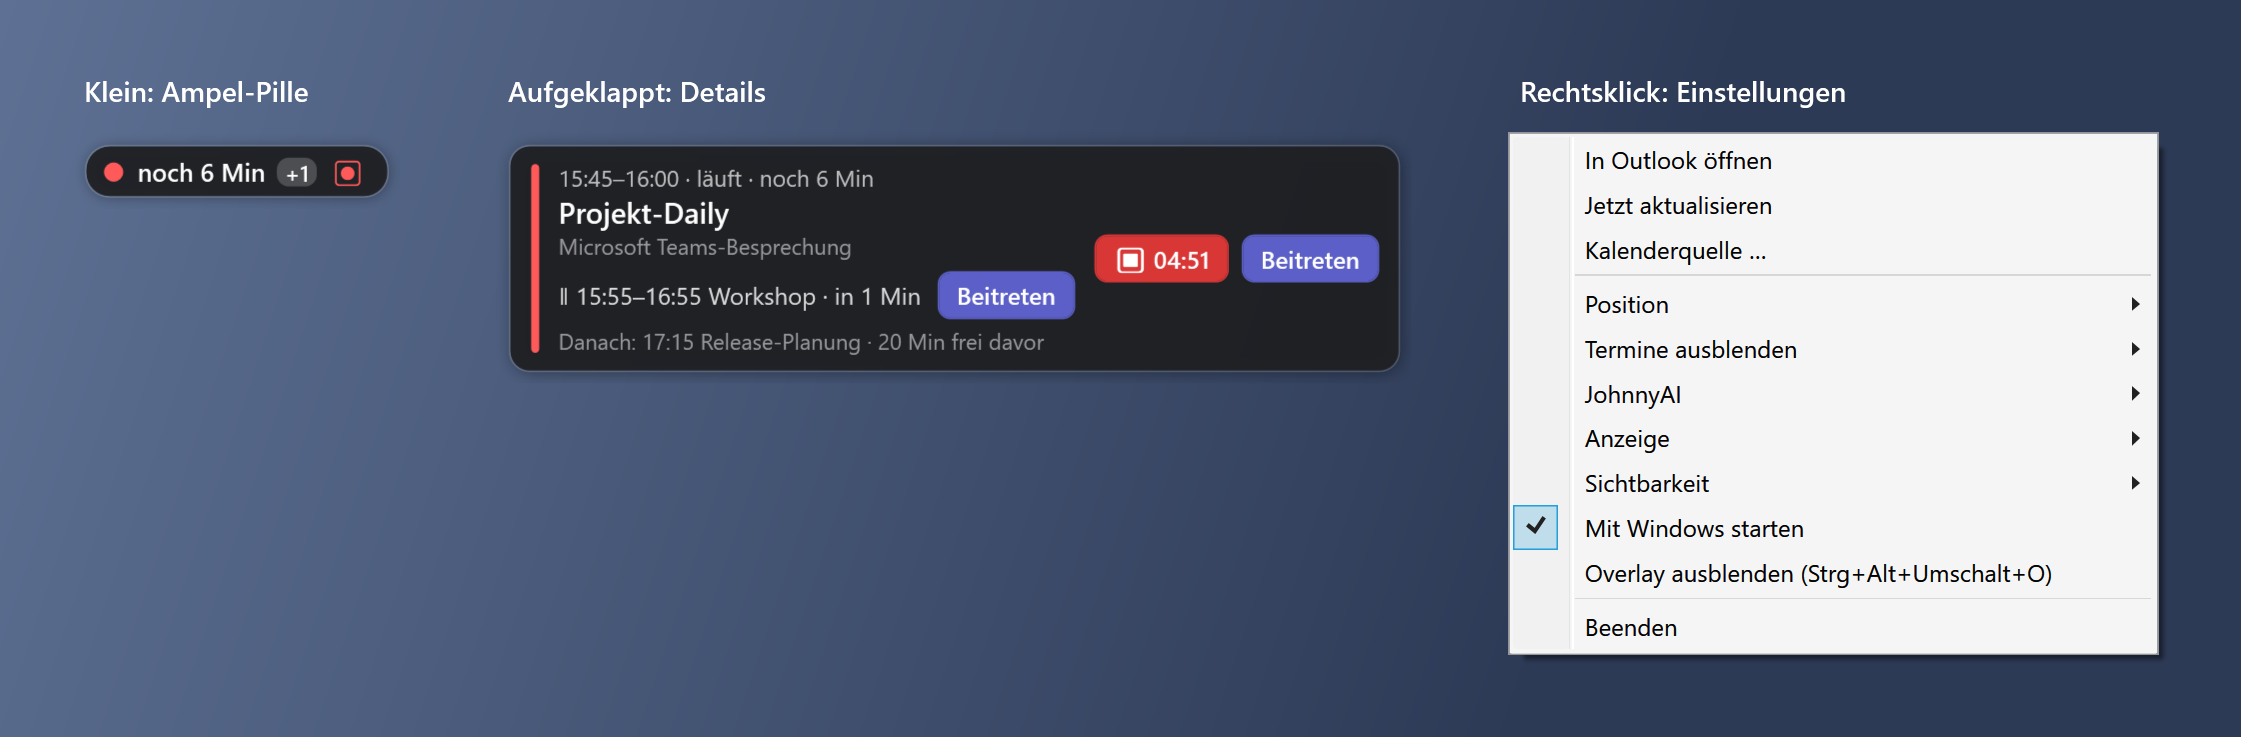
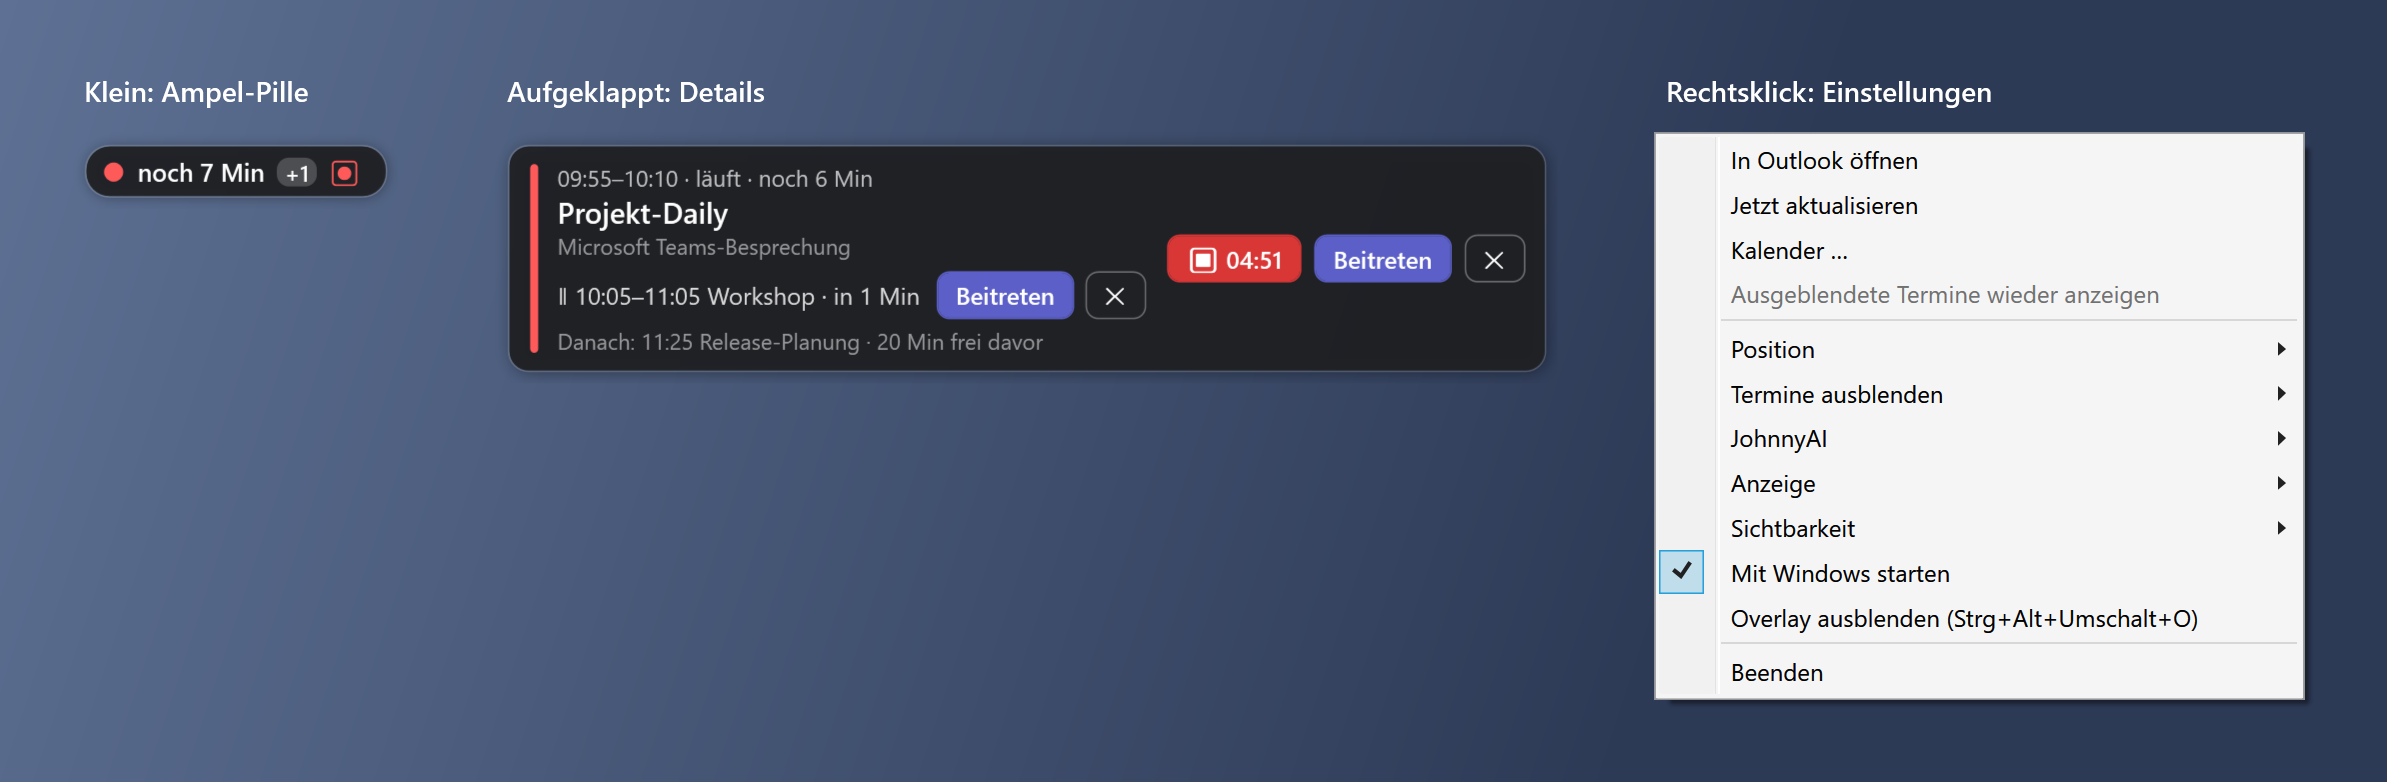
Nicht teilnehmen: Termin per ✕ im Overlay ausblenden (Outlook unverändert), mit Rückgängig
Pro Termin und parallelem Termin ein ✕; Hinweis zum Rückgängigmachen, Menüpunkt zum Wiederherstellen; alte Einträge werden nach 2 Tagen aufgeräumt. Karte etwas breiter, Screenshot neu.

Changed region(s): [[0.0312, 0.0936, 0.9683, 0.905], [0.2187, 0.0936, 0.3436, 0.156], [0.0312, 0.0936, 0.1562, 0.156]]

diff --git a/MainWindow.xaml b/MainWindow.xaml
@@ -46,7 +46,7 @@
 
     <Border x:Name="Card" Margin="6" CornerRadius="10" Background="#F01F2023"
             BorderBrush="#33FFFFFF" BorderThickness="1" Padding="10,8"
-            MinWidth="240" MaxWidth="460">
+            MinWidth="240" MaxWidth="560">
         <Border.Effect>
             <DropShadowEffect BlurRadius="12" ShadowDepth="2" Opacity="0.45"/>
         </Border.Effect>
@@ -79,6 +79,9 @@
                 <Button x:Name="JoinButton" Template="{StaticResource PillButton}" Content="Beitreten"
                         Background="#5B5FC7" BorderBrush="#5B5FC7"
                         Cursor="Hand" Focusable="False" Click="OnJoinClick"/>
+                <Button x:Name="SkipButton" Template="{StaticResource PillButton}" Content="✕"
+                        Background="Transparent" BorderBrush="#55FFFFFF" Margin="6,0,0,0"
+                        Cursor="Hand" Focusable="False" Click="OnSkipClick"/>
             </StackPanel>
         </Grid>
     </Border>

diff --git a/MainWindow.xaml.cs b/MainWindow.xaml.cs
@@ -37,6 +37,7 @@ public partial class MainWindow : Window
     private static readonly Brush Gray = Frozen("#80FFFFFF");
     private static readonly Brush DefaultBorder = Frozen("#33FFFFFF");
     private static readonly Brush JohnnyBorder = Frozen("#66FF5A5A");
+    private static readonly Brush SkipBorder = Frozen("#55FFFFFF");
 
     private readonly Settings _s = Settings.Load();
     private readonly OutlookReader _reader = new();
@@ -70,7 +71,7 @@ public partial class MainWindow : Window
     private bool _johnnyAvailable = (Demo.Active && !JohnnyAiClient.Disabled) || JohnnyAiClient.IsInstalled;   // false -> no JohnnyAI UI at all
     private JohnnyStatus? _johnny;       // null = not running or JohnnyAI without control pipe
     private bool _johnnyPolling;
-    private Meeting? _balloonMeeting;    // meeting a "start recording?" balloon refers to
+    private Func<Task>? _balloonAction;  // what a click on the current tray balloon does
 
     public MainWindow()
     {
@@ -245,7 +246,7 @@ public partial class MainWindow : Window
     private void UpdateDisplay()
     {
         var now = DateTime.Now;
-        var upcoming = _meetings.Where(m => m.End > now).ToList();
+        var upcoming = VisibleMeetings().Where(m => m.End > now).ToList();
         var main = upcoming.FirstOrDefault();
         _shown = main;
         _blink = !_blink;
@@ -264,6 +265,7 @@ public partial class MainWindow : Window
             LocationText.Visibility = Visibility.Collapsed;
             FollowUpText.Visibility = Visibility.Collapsed;
             JoinButton.Visibility = Visibility.Collapsed;
+            SkipButton.Visibility = Visibility.Collapsed;
             Card.ToolTip = "Rechtsklick: Einstellungen";
             SetTrayText(SubjectText.Text);
             return;
@@ -322,6 +324,8 @@ public partial class MainWindow : Window
 
         JoinButton.Visibility = main.JoinUrl != null ? Visibility.Visible : Visibility.Collapsed;
         JoinButton.ToolTip = $"Online-Meeting beitreten ({HotkeyHint}+J)";
+        SkipButton.Visibility = Visibility.Visible;
+        SkipButton.ToolTip = $"Nicht teilnehmen – „{main.Subject}“ im Overlay ausblenden\n(in Outlook bleibt der Termin unverändert, es geht keine Absage raus)";
 
         UpdateToolTip(main, upcoming, range, now);
         SetTrayText($"{main.Start:HH:mm} {subject} ({relative})");
@@ -366,7 +370,7 @@ public partial class MainWindow : Window
 
         // "+1": meetings overlapping the shown one (same rule as the parallel rows in the card).
         int overlapCount = main == null || !_s.ShowOverlaps ? 0
-            : _meetings.Count(m => m != main && m.End > now && m.Start >= main.Start && m.Start < main.End);
+            : VisibleMeetings().Count(m => m != main && m.End > now && m.Start >= main.Start && m.Start < main.End);
         MiniOverlapText.Text = $"+{overlapCount}";
         MiniOverlap.Visibility = overlapCount > 0 ? Visibility.Visible : Visibility.Collapsed;
 
@@ -434,6 +438,11 @@ public partial class MainWindow : Window
                     grid.Children.Add(join);
                 }
 
+                grid.ColumnDefinitions.Add(new ColumnDefinition { Width = GridLength.Auto });
+                var skip = CreateSkipButton(m);
+                Grid.SetColumn(skip, 2);
+                grid.Children.Add(skip);
+
                 OverlapPanel.Children.Add(grid);
                 _overlapRows.Add((m, text));
             }
@@ -446,6 +455,64 @@ public partial class MainWindow : Window
             text.Text = $"∥ {m.Start:HH:mm}–{m.End:HH:mm} {m.Subject} · {state}";
             text.ToolTip = $"Parallel: {m.Subject} ({m.Start:HH:mm}–{m.End:HH:mm})";
         }
+    }
+
+    // ───────────────────────── Not attending (skip) ─────────────────────────
+
+    private IEnumerable<Meeting> VisibleMeetings() =>
+        _s.SkippedMeetings.Count == 0 ? _meetings : _meetings.Where(m => !_s.SkippedMeetings.Contains(m.Key));
+
+    /// <summary>
+    /// "Nicht teilnehmen": hides this one occurrence in the overlay (no ampel, no JohnnyAI prompt).
+    /// Outlook stays untouched - nothing is declined or sent to the organizer.
+    /// </summary>
+    private void SkipMeeting(Meeting meeting)
+    {
+        if (!_s.SkippedMeetings.Contains(meeting.Key)) _s.SkippedMeetings.Add(meeting.Key);
+        _johnnyHandled.Add(meeting.Key);
+        _s.Save();
+        _toolTipKey = null;
+        UpdateDisplay();
+        ShowActionBalloon("Termin ausgeblendet",
+            $"„{meeting.Subject}“ ({meeting.Start:HH:mm}) wird im Overlay nicht mehr angezeigt – in Outlook bleibt er unverändert.\nHier klicken zum Rückgängigmachen.",
+            () =>
+            {
+                _s.SkippedMeetings.Remove(meeting.Key);
+                _s.Save();
+                _toolTipKey = null;
+                UpdateDisplay();
+                return Task.CompletedTask;
+            }, timeoutMs: 8000);
+    }
+
+    private void ShowSkippedMeetingsAgain()
+    {
+        _s.SkippedMeetings.Clear();
+        _s.Save();
+        _toolTipKey = null;
+        UpdateDisplay();
+    }
+
+    private Button CreateSkipButton(Meeting meeting)
+    {
+        var button = new Button
+        {
+            Template = (ControlTemplate)FindResource("PillButton"),
+            Content = "✕",
+            Background = Brushes.Transparent,
+            BorderBrush = SkipBorder,
+            Margin = new Thickness(6, 0, 0, 0),
+            Cursor = Cursors.Hand,
+            Focusable = false,
+            ToolTip = $"Nicht teilnehmen – „{meeting.Subject}“ im Overlay ausblenden\n(in Outlook bleibt der Termin unverändert, es geht keine Absage raus)",
+        };
+        button.Click += (_, _) => SkipMeeting(meeting);
+        return button;
+    }
+
+    private void OnSkipClick(object sender, RoutedEventArgs e)
+    {
+        if (_shown != null) SkipMeeting(_shown);
     }
 
     /// <summary>Appends the calendar name ("Raum 2.04 · Privat") when several calendars are active.</summary>
@@ -587,9 +654,14 @@ public partial class MainWindow : Window
         }
         else
         {
-            _balloonMeeting = m;
-            _tray?.ShowBalloonTip(15000, "Termin beginnt – Aufnahme starten?",
-                $"{m.Subject}\nHier klicken oder ⏺ im Overlay, um JohnnyAI aufnehmen zu lassen.", Forms.ToolTipIcon.Info);
+            ShowActionBalloon("Termin beginnt – Aufnahme starten?",
+                $"{m.Subject}\nHier klicken oder ⏺ im Overlay, um JohnnyAI aufnehmen zu lassen.",
+                async () =>
+                {
+                    if (_johnny == null || _johnny.Recording) return;
+                    await StartJohnnyAsync(m);
+                    await PollJohnnyAsync();
+                });
         }
     }
 
@@ -719,7 +791,13 @@ public partial class MainWindow : Window
         catch { return false; }
     }
 
-    private void ShowInfo(string text) =>
+    private void ShowInfo(string text)
+    {
+        _balloonAction = null;   // a plain info balloon must not trigger an older balloon's action
+        ShowInfoBalloon(text);
+    }
+
+    private void ShowInfoBalloon(string text) =>
         _tray?.ShowBalloonTip(4000, "Nächster Termin", text, Forms.ToolTipIcon.Info);
 
     // ───────────────────────── Window flags, visibility, hotkeys ─────────────────────────
@@ -942,6 +1020,8 @@ public partial class MainWindow : Window
         menu.Items.Add(Item("In Outlook öffnen", OpenInOutlook));
         menu.Items.Add(Item("Jetzt aktualisieren", () => { InvalidateCalendarCaches(); _ = RefreshAsync(); }));
         menu.Items.Add(Item("Kalender …", EditCalendars));
+        _skipAllItem = Item("Ausgeblendete Termine wieder anzeigen", ShowSkippedMeetingsAgain);
+        menu.Items.Add(_skipAllItem);
         menu.Items.Add(new Separator());
 
         var position = new MenuItem { Header = "Position" };
@@ -1008,12 +1088,16 @@ public partial class MainWindow : Window
             foreach (var (item, isChecked) in _checkItems) item.IsChecked = isChecked();
             _keywordItem.Header = KeywordHeader();
             _johnnyMenu.Visibility = _johnnyAvailable ? Visibility.Visible : Visibility.Collapsed;
+            int skipped = _s.SkippedMeetings.Count;
+            _skipAllItem.Header = skipped > 0 ? $"Ausgeblendete Termine wieder anzeigen ({skipped})" : "Ausgeblendete Termine wieder anzeigen";
+            _skipAllItem.IsEnabled = skipped > 0;
             _hotkeyItem.Header = HotkeyMenuHeader();
         };
         return menu;
     }
 
     private MenuItem _johnnyMenu = null!;
+    private MenuItem _skipAllItem = null!;
     private MenuItem _hotkeyItem = null!;
 
     private string HotkeyMenuHeader() => $"Tastenkürzel ({HotkeyHint}+O/J{(_johnnyAvailable ? "/A" : "")}/K)";
@@ -1291,13 +1375,18 @@ public partial class MainWindow : Window
         };
         _tray.BalloonTipClicked += async (_, _) =>
         {
-            var meeting = _balloonMeeting;
-            _balloonMeeting = null;
-            if (meeting == null || _johnny == null || _johnny.Recording) return;
-            await StartJohnnyAsync(meeting);
-            await PollJohnnyAsync();
+            var action = _balloonAction;
+            _balloonAction = null;
+            if (action != null) await action();
         };
-        _tray.BalloonTipClosed += (_, _) => _balloonMeeting = null;
+        _tray.BalloonTipClosed += (_, _) => _balloonAction = null;
+    }
+
+    /// <summary>Balloon whose click runs an action (start recording, undo hiding a meeting).</summary>
+    private void ShowActionBalloon(string title, string text, Func<Task> onClick, int timeoutMs = 15000)
+    {
+        _balloonAction = onClick;
+        _tray?.ShowBalloonTip(timeoutMs, title, text, Forms.ToolTipIcon.Info);
     }
 
     private void SetTrayText(string text)

diff --git a/Settings.cs b/Settings.cs
@@ -84,6 +84,12 @@ public sealed class Settings
     public bool ClickThrough { get; set; } = false;
     public bool HotkeysEnabled { get; set; } = true;
 
+    /// <summary>
+    /// Meetings the user clicked away ("nicht teilnehmen"), as <see cref="Meeting.Key"/>.
+    /// Only hidden in the overlay - Outlook is not touched and no decline is sent.
+    /// </summary>
+    public List<string> SkippedMeetings { get; set; } = new();
+
     /// <summary>All calendars whose meetings are merged into one view.</summary>
     public List<CalendarSource> Calendars { get; set; } = new();
     public int IcsRefreshMinutes { get; set; } = 5;
@@ -100,6 +106,14 @@ public sealed class Settings
                 : new CalendarSource { Name = "Kalender", Kind = CalendarKind.Ics, UrlProtected = IcsUrlProtected });
         }
         IcsUrlProtected = null;
+
+        // Forget skipped meetings that are long over (key starts with the ISO start time).
+        SkippedMeetings.RemoveAll(key =>
+        {
+            var start = key.Split('|')[0];
+            return !DateTime.TryParse(start, null, System.Globalization.DateTimeStyles.RoundtripKind, out var when)
+                   || when < DateTime.Now.AddDays(-2);
+        });
     }
 
     /// <summary>Calendar links are secrets (anyone with one can read the calendar) -> DPAPI, current user.</summary>

diff --git a/README.md b/README.md
@@ -11,6 +11,7 @@ Kleines Windows-Overlay, das den nächsten Outlook-Termin anzeigt – als unauff
 - **Ampel-Pille:** grün = mehr als 2 Std frei · gelb = Termin in ≤ 2 Std · rot = in ≤ 15 Min oder läuft (blinkt in der letzten Minute) · „+1“ bei überschneidenden Terminen
 - **Details** bei Mausberührung oder Klick: Uhrzeit, Countdown, Ort, parallele Termine, Folgetermin mit freier Zeit, Tagesübersicht
 - **„Beitreten“-Knopf** für Teams-, Zoom-, Meet- und Webex-Links
+- **Nicht teilnehmen (✕):** blendet einen einzelnen Termin im Overlay aus – das nächste rückt nach. In Outlook bleibt der Termin unverändert, es geht keine Absage raus. Rückgängig über den Hinweis oder Rechtsklick → „Ausgeblendete Termine wieder anzeigen“
 - **Filter:** als „frei“ markierte Blocker, Stichwörter (Mittag, Pause, …), ganztägige, abgesagte, private Termine – alles einzeln schaltbar
 - **Andocken** oben links / Mitte / rechts, auf jedem Monitor
 - **Bei Bildschirmfreigabe unsichtbar:** In Teams-/Zoom-Freigaben und auf Screenshots sehen andere das Overlay nicht – du schon
